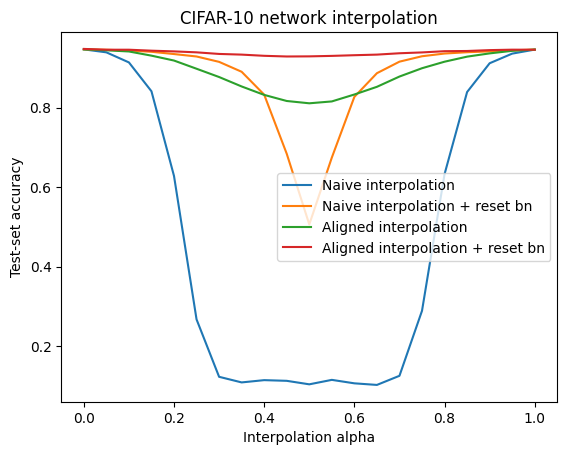
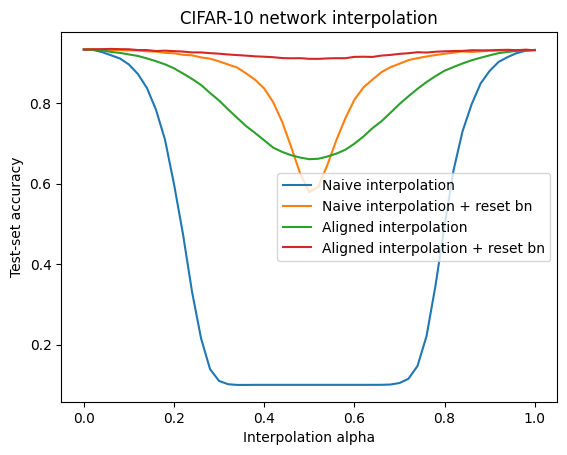
.

diff --git a/repair/experiment.py b/repair/experiment.py
@@ -173,11 +173,13 @@ if __name__ == '__main__':
 
 
     print('\n\nStep 3: Interpolate between the two networks.\n')
+
     accs1 = []
     accs2 = []
     accs3 = []
     accs4 = []
-    alpha_range = torch.arange(0, 1.0001, 0.05).tolist()
+    alpha_range = torch.arange(0, 1.0001, 0.02).tolist()
+    print('Trying %d different interpolation values...' % len(alpha_range))
     for alpha in tqdm(alpha_range):
         
         net = mix_weights(net0, net1, alpha)
@@ -198,7 +200,7 @@ if __name__ == '__main__':
 
 
     i = alpha_range.index(0.5)
-    print('Accuracy values for midpoint network (i.e., alpha = 0.5):\n')
+    print('\nAccuracy values for midpoint network (i.e., alpha = 0.5):\n')
     print('Naive interpolation:\t\t\t%.4f' % accs1[i])
     print('Naive interpolation + reset BN:\t\t%.4f' % accs2[i])
     print('Aligned interpolation:\t\t\t%.4f' % accs3[i])
@@ -213,4 +215,5 @@ if __name__ == '__main__':
     plt.plot(alpha_range, accs4, label='Aligned interpolation + reset bn')
     plt.legend()
     plt.savefig('figure.png', dpi=100, bbox_inches='tight')
+    print('Saved figure.')
 
